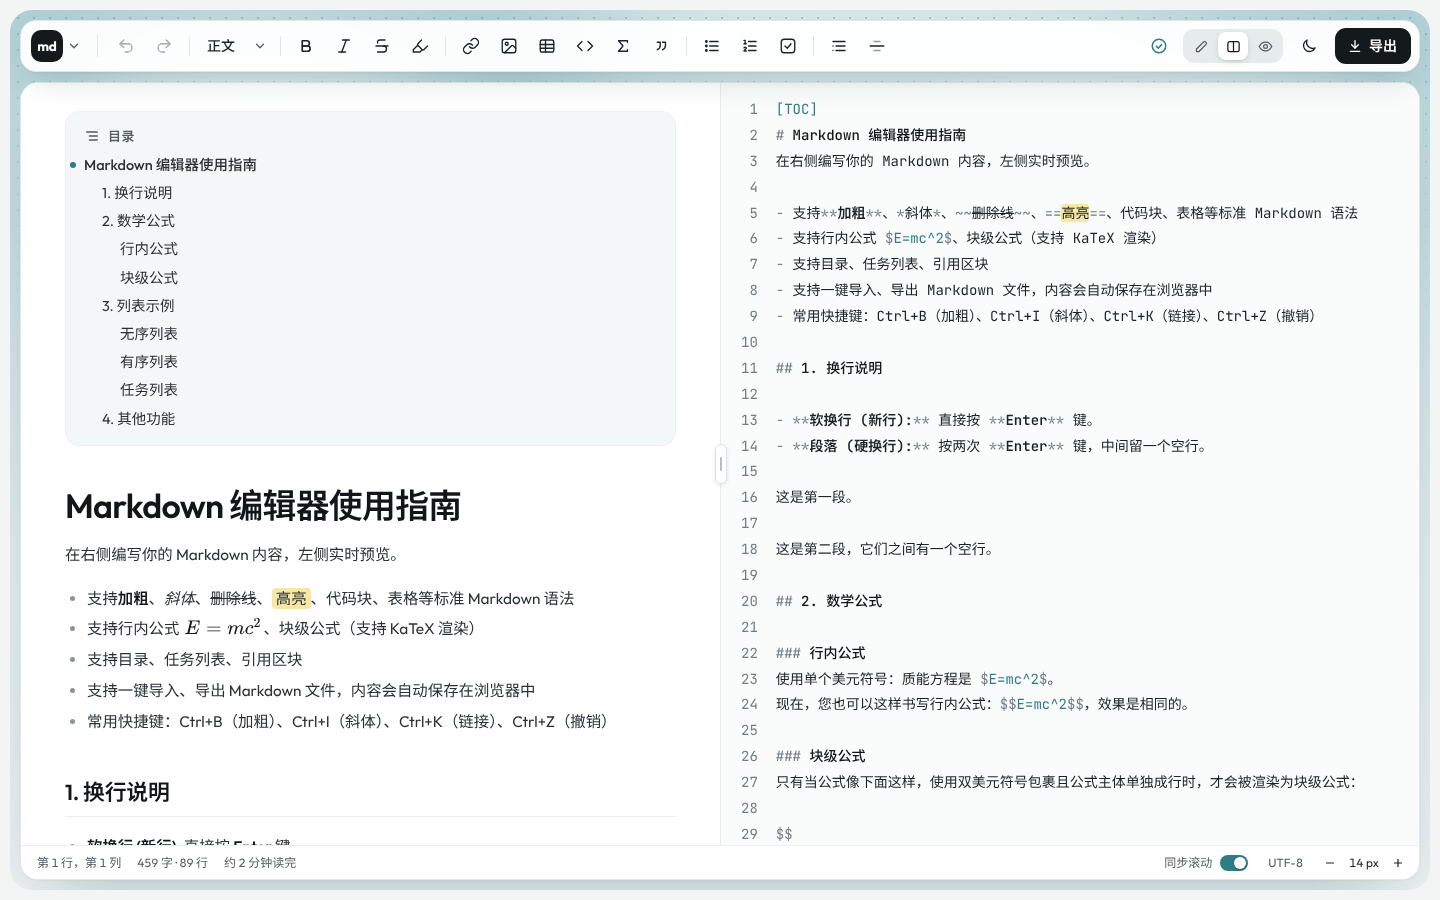
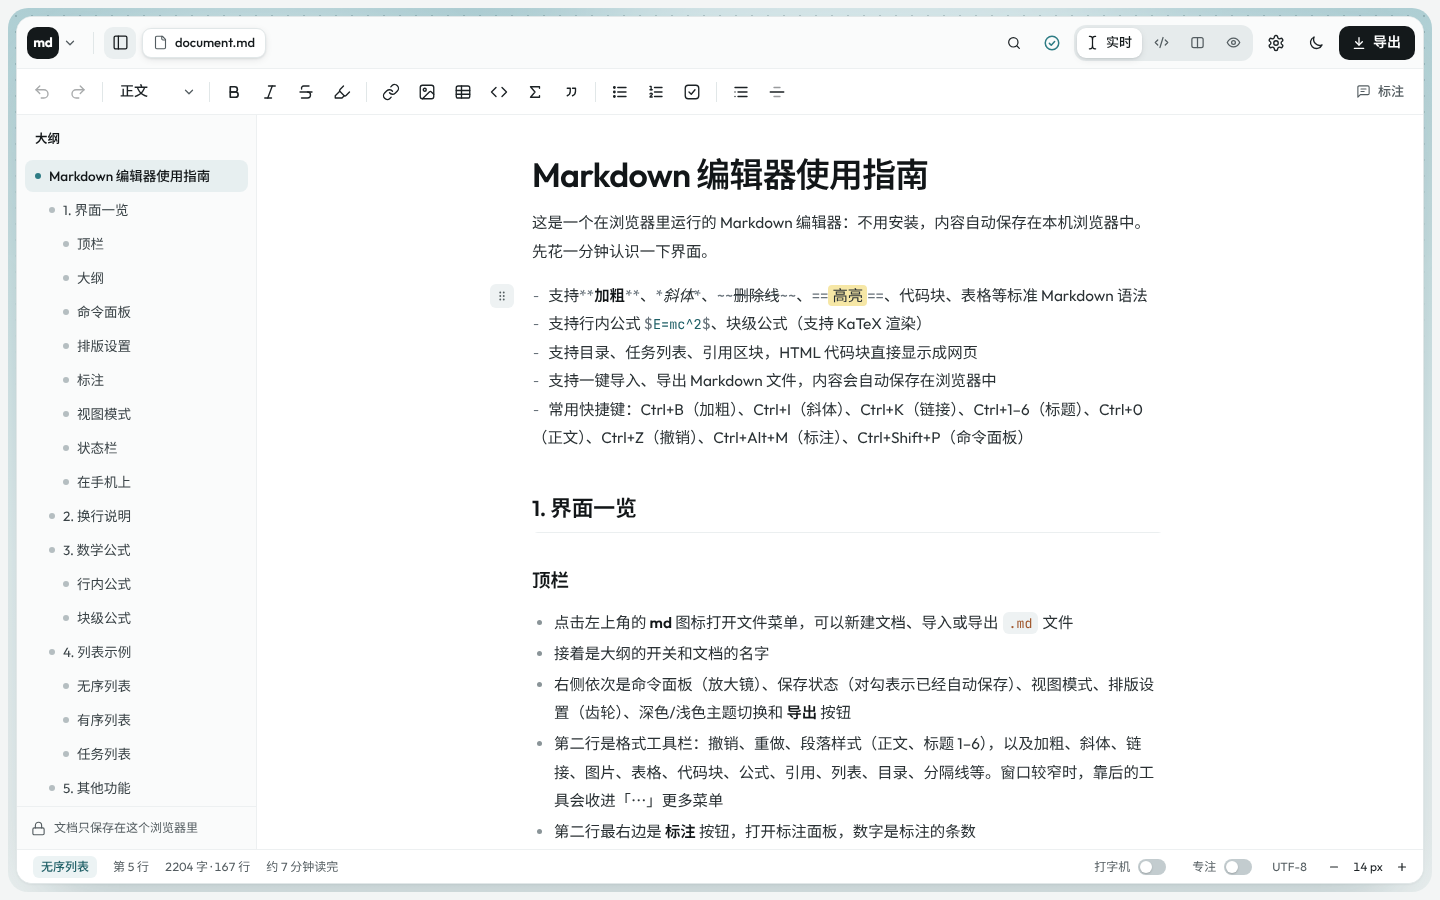
README: the live mode's tools, phones, shortcuts and a new screenshot
The README now describes what steps 2–5 of the live redesign added and
it had missed: the slash menu, the selection toolbar, block handles and
the block menu, table cells, the link bubble, the code language menu and
the phone layout; the shortcut table gains Ctrl+0–6, Ctrl+Enter and Esc;
the stylesheets' descriptions match what they hold. The screenshot shows
the live mode instead of the old split view. Two tokens unused since the
top bar moved into the card (--toolbar-bg, --shadow-toolbar) are gone.

diff --git a/assets/css/tokens.css b/assets/css/tokens.css
@@ -22,7 +22,6 @@
     --hover-strong: #EEF2F3;
     --pressed: #EAEFF0;
     --segment-bg: #E6EBEC;
-    --toolbar-bg: rgba(255, 255, 255, 0.94);
 
     /* Borders */
     --border: #E1E7E8;
@@ -76,7 +75,6 @@
     --sky-dots: rgba(22, 56, 62, 0.20);
 
     /* Shadows */
-    --shadow-toolbar: 0 1px 2px rgba(17, 24, 26, 0.05), 0 14px 34px -14px rgba(28, 72, 80, 0.30);
     --shadow-card: 0 1px 2px rgba(17, 24, 26, 0.04), 0 30px 70px -30px rgba(28, 72, 80, 0.35);
     --shadow-pop: 0 1px 2px rgba(17, 24, 26, 0.06), 0 24px 48px -16px rgba(28, 72, 80, 0.35);
     --shadow-pill: 0 6px 18px -8px rgba(28, 72, 80, 0.35);
@@ -128,7 +126,6 @@
     --hover-strong: #20282B;
     --pressed: #283236;
     --segment-bg: #1D2427;
-    --toolbar-bg: rgba(24, 30, 33, 0.92);
 
     --border: #273034;
     --border-strong: #2F3A3E;
@@ -176,7 +173,6 @@
     --cloud-opacity: 0.08;
     --sky-dots: rgba(170, 215, 222, 0.14);
 
-    --shadow-toolbar: 0 1px 2px rgba(0, 0, 0, 0.3), 0 14px 34px -14px rgba(0, 0, 0, 0.6);
     --shadow-card: 0 1px 2px rgba(0, 0, 0, 0.3), 0 30px 70px -30px rgba(0, 0, 0, 0.7);
     --shadow-pop: 0 1px 2px rgba(0, 0, 0, 0.35), 0 24px 48px -16px rgba(0, 0, 0, 0.7);
     --shadow-pill: 0 6px 18px -8px rgba(0, 0, 0, 0.6);

diff --git a/README.md b/README.md
@@ -2,19 +2,28 @@
 
 A lightweight Markdown editor that runs entirely in the browser. Write in live mode, where the block you are editing shows its Markdown and everything else stays rendered, or use the source, split and preview views. Math, code highlighting and a table of contents are built in. There is no build step and no server: open `index.html` and start writing.
 
-<img width="1440" height="900" alt="Markdown 编辑器界面：左侧预览，右侧编辑" src="docs/screenshot.png" />
+<img width="1440" height="900" alt="Markdown 编辑器的实时模式：左侧大纲，中间是排好版的文档，正在编辑的一块显示 Markdown 标记" src="docs/screenshot.png" />
 
 ## Features
 
 **Live mode (实时)**
 - The document is shown rendered; the block the caret is in shows its Markdown markers, keeping its size, weight and colour, and is rendered again as soon as the caret leaves it
 - Click a block to edit it there; the arrow keys move between blocks. Enter starts a new paragraph (or continues a list or quote), Shift+Enter adds a line break, Esc stops editing
-- Code blocks are edited in a code editor with line numbers and an editable language; formula blocks show a live preview under their LaTeX, and an inline formula shows one while the caret is in it
+- Type `/` on an empty line (or click the **+** beside it) for a menu of blocks to insert — headings, lists, quote, table, code, formula, HTML, table of contents — filtered as you type, in Chinese, English or pinyin
+- Select text for a toolbar above it: bold, italic, strikethrough, highlight, inline code, inline formula, link, clear formatting, and **标注**
+- A handle beside each block: drag it to move the block, or click it for a menu (turn it into a paragraph, heading, quote, list or code block; insert below; copy; copy as Markdown; delete). Ctrl+Enter opens an empty line below the block being edited
+- Tables are edited cell by cell: Tab and Enter move between cells and add a row at the end, the arrow keys cross cell edges, and a toolbar above the table sets the column's alignment, inserts rows and columns, or deletes the table
+- Hovering over a link, or putting the caret in it, shows a bubble to open, edit, copy or remove it; Ctrl+K edits the link the caret is in
+- Code blocks are edited in a code editor with line numbers; the language chip at its top left opens a searchable list of languages; formula blocks show a live preview under their LaTeX, and an inline formula shows one while the caret is in it
 - `html` code blocks run as web pages, in a frame sandboxed with only `allow-scripts`: their scripts work, but they can't reach the editor's page or its storage. A frame is made when it scrolls near the view and grows with its content (up to 80% of the view's height); its bottom-right corner has zoom (50–200%), full screen, **</>** to edit the code, and a grip to set the height by hand (double-click it to follow the content again). While the code is being edited, the 安全渲染 label says what the sandbox allows and 预览 shows the result under the code. The editor's colours are there as CSS variables (`var(--accent)`, `var(--text)` …) and follow the theme
 - Click a task's checkbox to tick it; Ctrl/⌘-click a link to open it
 - Typing `` ``` `` or `$$` on a line of its own and pressing Enter creates a code or formula block
 - 打字机 (typewriter) keeps the caret line in the middle of the screen; 专注 (focus) fades every block but the one being edited
 - Fast on long documents: only the edited block is re-rendered, rendered blocks are cached, and off-screen blocks skip layout
+
+**On phones**
+- A 60px top bar: the file menu, the file name and its save state, a switch between live and source, and a **⋯** menu with the other views, dark mode, the status bar's switches and font size, typography settings and the annotation panel
+- While a block is being edited, a row of buttons above the on-screen keyboard: insert a block (`/`), bold, italic, task list, link, undo, and hide the keyboard
 
 **Source editing**
 - Editor with line numbers, Markdown syntax highlighting and current-line highlight
@@ -58,11 +67,14 @@ Standard GitHub-flavoured Markdown (tables, fenced code, strikethrough, autolink
 |:--|:--|:--|
 | Bold | `Ctrl+B` | `⌘B` |
 | Italic | `Ctrl+I` | `⌘I` |
-| Insert link | `Ctrl+K` | `⌘K` |
+| Insert link (or edit the link the caret is in) | `Ctrl+K` | `⌘K` |
+| Paragraph / heading 1–6 | `Ctrl+0` / `Ctrl+1`–`Ctrl+6` | `⌘0` / `⌘1`–`⌘6` |
 | Undo | `Ctrl+Z` | `⌘Z` |
 | Redo | `Ctrl+Y` or `Ctrl+Shift+Z` | `⌘⇧Z` |
 | Annotate the selection | `Ctrl+Alt+M` | `⌘⌥M` |
 | Command palette | `Ctrl+Shift+P` | `⌘⇧P` |
+| Live mode: an empty line below the block | `Ctrl+Enter` | `⌘↩` |
+| Live mode: stop editing the block | `Esc` | `Esc` |
 
 ## Getting started
 
@@ -101,16 +113,16 @@ Documents are autosaved to your browser's `localStorage`. They never leave your 
 ## Project structure
 
 ```
-index.html              App markup: top bar, toolbar, panes, status bar, popovers
+index.html              App markup: top bar, toolbar, outline, panes, panels, status bar, popovers
 assets/
   css/
     tokens.css          Design tokens (colours, fonts, radii, shadows), light and dark
     base.css            Reset and shared controls (buttons, segmented control, inputs)
-    layout.css          App shell: stage, top bar, toolbar, save state, card, panes, splitter, status bar
-    menus.css           Menus (file, paragraph style, more tools), table picker, link dialog
+    layout.css          App shell: stage, card, top bar, toolbar, outline, typography settings, panes, splitter, annotation panel, status bar, phone layout
+    menus.css           Menus and popovers: file, paragraph style, more tools, phone menu, table picker, link dialog, slash menu, floating toolbars, block menu, link bubble, language menu, command palette, annotation dialog, toast
     editor.css          Source editor (transparent textarea over a highlighted backdrop)
-    preview.css         Rendered Markdown, code theme, KaTeX tweaks
-    live.css            Live mode: blocks, the block being edited, code and formula editors
+    preview.css         Rendered Markdown, code theme, KaTeX tweaks, HTML block frames, annotation marks
+    live.css            Live mode: blocks, the block being edited, code, formula and table editing, block handles
   js/
     store.js            Safe localStorage wrapper (settings and autosave)
     typography.js       Typography settings (page width, fonts, line spacing), applied before the first paint
